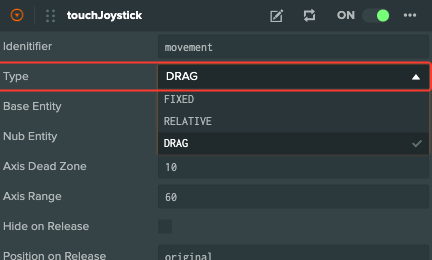
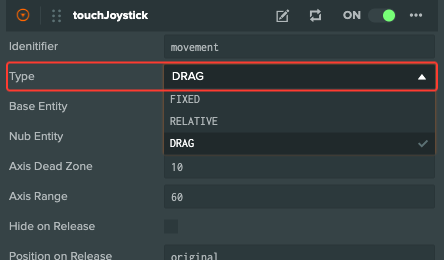
docs: unclip two highlight boxes and name the joystick types
The red box on text-element ran off the crop's right edge, and the one
on joystick-type touched both sides. Both now sit 6 px inside the image.

Touch Joypad now names the three joystick types as the Type dropdown
lists them (FIXED, RELATIVE, DRAG), in English and Japanese.

diff --git a/i18n/ja/docusaurus-plugin-content-docs/current/tutorials/touch-joypad.md b/i18n/ja/docusaurus-plugin-content-docs/current/tutorials/touch-joypad.md
@@ -68,13 +68,13 @@ Open your project, right click in the assets panel and click on 'Paste'
 
 ![](/img/tutorials/touchscreen-joypad-controls/joystick-type.webp)
 
-'Fixed in place' where the base of the joystick does not move from it's position:
+**FIXED**, where the base of the joystick does not move from its position:
 <StepVideo src="/video/tutorials/touchscreen-joypad-controls/joystick-fixed.mp4" poster="/img/tutorials/touchscreen-joypad-controls/joystick-fixed.webp" width={854} height={480} />
 
-'Move to first touch and fixed' where the base of the joystick moves to where the user first touches in the input area and then stays fixed:
+**RELATIVE**, where the base of the joystick moves to where the user first touches in the input area and then stays fixed:
 <StepVideo src="/video/tutorials/touchscreen-joypad-controls/joystick-relative-fixed.mp4" poster="/img/tutorials/touchscreen-joypad-controls/joystick-relative-fixed.webp" width={854} height={480} />
 
-'Move to first touch and drags' where the base of the joystick moves to where the user first touches in the input area and then is dragged when the user drags pass the joystick range:
+**DRAG**, where the base of the joystick moves to where the user first touches in the input area and then is dragged when the user drags past the joystick range:
 <StepVideo src="/video/tutorials/touchscreen-joypad-controls/joystick-relative-drag.mp4" poster="/img/tutorials/touchscreen-joypad-controls/joystick-relative-drag.webp" width={855} height={480} />
 
 これは、ランタイムで変更できるため、アプリケーションの設定の一部として、ユーザーオプションとして追加することができます。

diff --git a/docs/tutorials/touch-joypad.md b/docs/tutorials/touch-joypad.md
@@ -70,13 +70,13 @@ There are 3 behavior types for the joystick that are commonly found in touch scr
 
 ![](/img/tutorials/touchscreen-joypad-controls/joystick-type.webp)
 
-'Fixed in place' where the base of the joystick does not move from its position:
+**FIXED**, where the base of the joystick does not move from its position:
 <StepVideo src="/video/tutorials/touchscreen-joypad-controls/joystick-fixed.mp4" poster="/img/tutorials/touchscreen-joypad-controls/joystick-fixed.webp" width={854} height={480} />
 
-'Move to first touch and fixed' where the base of the joystick moves to where the user first touches in the input area and then stays fixed:
+**RELATIVE**, where the base of the joystick moves to where the user first touches in the input area and then stays fixed:
 <StepVideo src="/video/tutorials/touchscreen-joypad-controls/joystick-relative-fixed.mp4" poster="/img/tutorials/touchscreen-joypad-controls/joystick-relative-fixed.webp" width={854} height={480} />
 
-'Move to first touch and drags' where the base of the joystick moves to where the user first touches in the input area and then is dragged when the user drags pass the joystick range:
+**DRAG**, where the base of the joystick moves to where the user first touches in the input area and then is dragged when the user drags past the joystick range:
 <StepVideo src="/video/tutorials/touchscreen-joypad-controls/joystick-relative-drag.mp4" poster="/img/tutorials/touchscreen-joypad-controls/joystick-relative-drag.webp" width={855} height={480} />
 
 This can be changed at runtime so it's possible to add this as a user option in the application as part of the in-application settings.
